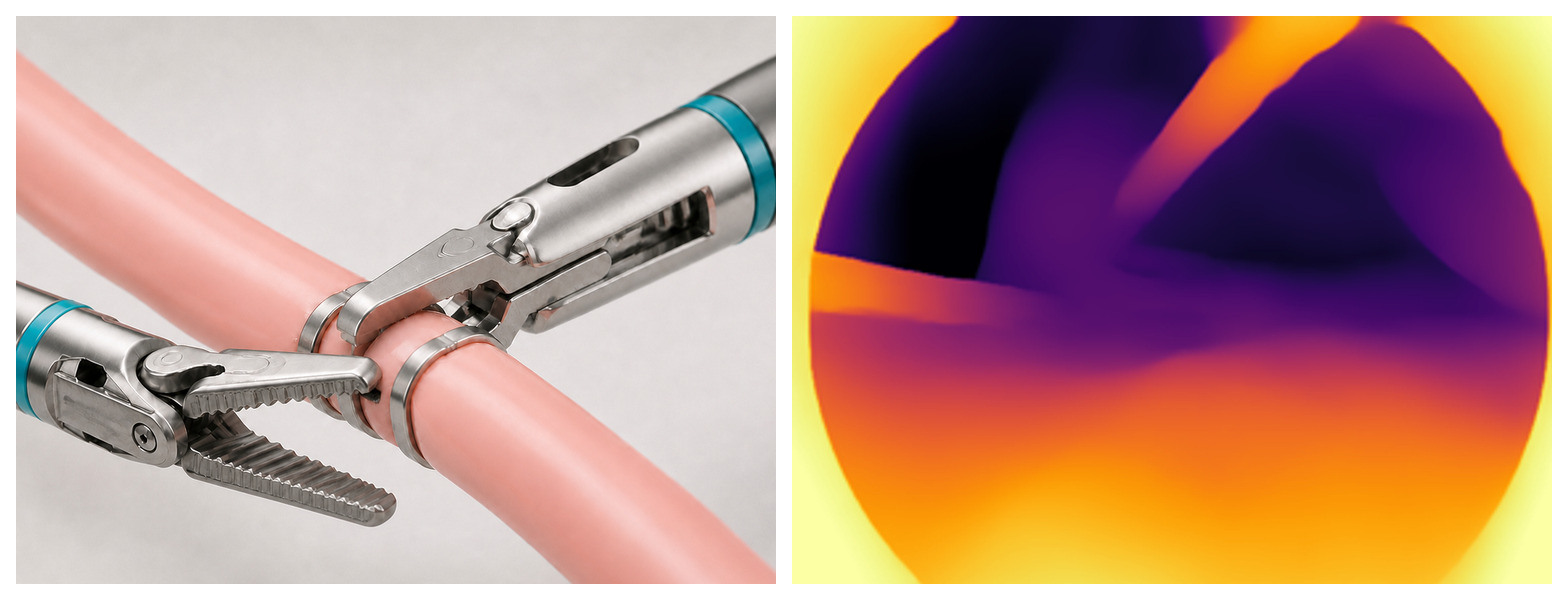
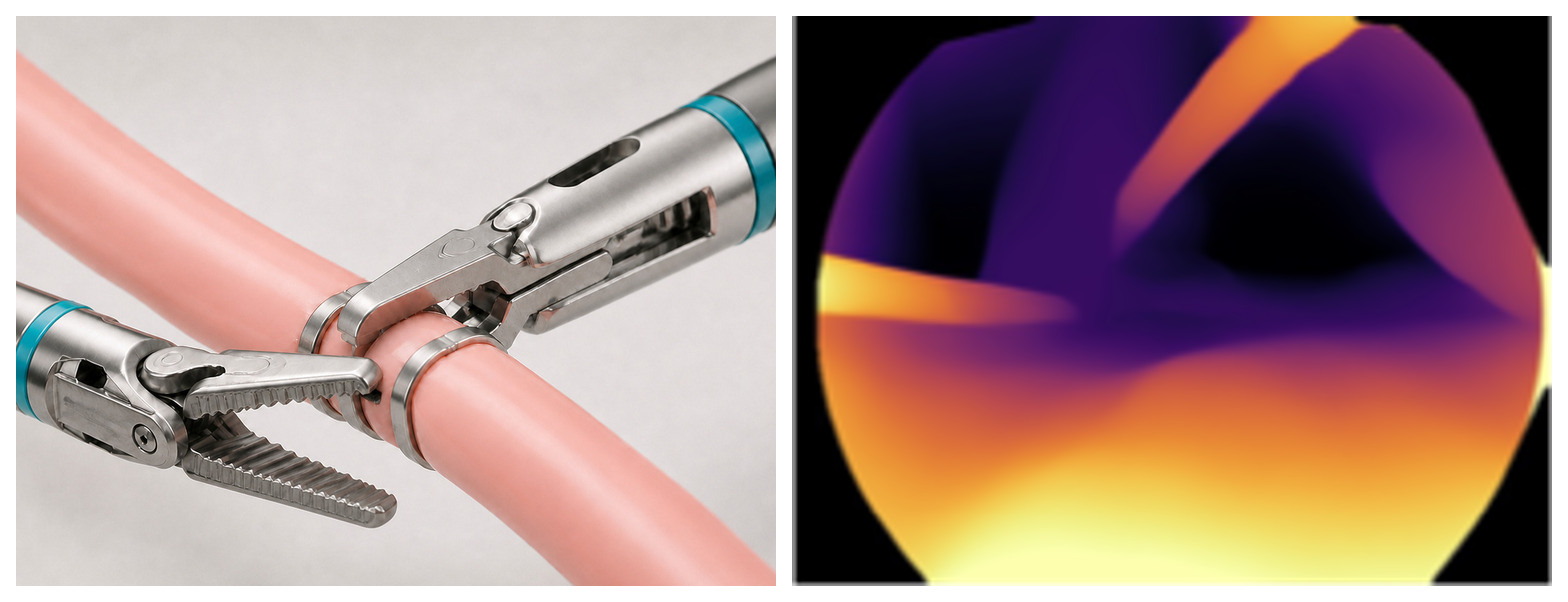
Use masked depth result and add compression ratio

diff --git a/script.js b/script.js
@@ -101,11 +101,11 @@ const translations = {
     "publications.internship.title": "Surgical Video Understanding and Efficient Depth Estimation",
     "publications.internship.role": "Machine Learning Engineer Intern",
     "publications.internship.summary":
-      "Built video models to recognize surgical phases and instrument actions for robot-assisted procedures. Compressed and fine-tuned a smaller Depth Anything 3 model that performs nearly as well as the full model.",
+      "Built video models to recognize surgical phases and instrument actions for robot-assisted procedures. Compressed and fine-tuned Depth Anything 3 to 29% of its original size while retaining nearly the full model's performance.",
     "publications.internship.keywords":
       "Surgical phase recognition · Robot-assisted surgery · Model compression · Monocular depth estimation",
     "publications.internship.imageAlt":
-      "Combined non-graphic surgical grasper and clip-applier illustration beside the full repaired small-model depth prediction",
+      "Combined non-graphic surgical grasper and clip-applier illustration beside a masked small-model depth prediction",
     "education.kicker": "Education",
     "education.title": "Academic Background.",
     "education.gmu.level": "Ph.D.",
@@ -225,11 +225,11 @@ const translations = {
     "publications.internship.title": "手术视频理解与高效深度估计",
     "publications.internship.role": "机器学习工程师实习生",
     "publications.internship.summary":
-      "构建视频模型，识别机器人辅助手术中的手术阶段和器械动作；压缩并微调小型 Depth Anything 3，使其性能与完整模型几乎一致。",
+      "构建视频模型，识别机器人辅助手术中的手术阶段和器械动作；将 Depth Anything 3 压缩并微调至原模型约 29% 的规模，性能与完整模型几乎一致。",
     "publications.internship.keywords":
       "手术阶段识别 · 机器人辅助手术 · 模型压缩 · 单目深度估计",
     "publications.internship.imageAlt":
-      "合成的非血腥手术夹持与施夹器械示意，以及完整的修复后小模型深度预测图",
+      "合成的非血腥手术夹持与施夹器械示意，以及视野外区域为黑色的小模型深度预测图",
     "education.kicker": "教育",
     "education.title": "教育背景。",
     "education.gmu.level": "博士",

diff --git a/index.html b/index.html
@@ -8,7 +8,7 @@
       content="Dachuan Song is a Ph.D. student at George Mason University researching deep learning, state space models, long-sequence modeling, and LLM-based systems."
     />
     <title>Dachuan Song | AI Research & Engineering</title>
-    <link rel="stylesheet" href="./styles.css?v=internship-two-panel-20260807" />
+    <link rel="stylesheet" href="./styles.css?v=internship-depth-mask-20260807" />
   </head>
   <body>
     <button
@@ -236,14 +236,14 @@
             <p data-i18n="publications.internship.role">Machine Learning Engineer Intern</p>
             <p class="publication-summary" data-i18n="publications.internship.summary">
               Built video models to recognize surgical phases and instrument actions for
-              robot-assisted procedures. Compressed and fine-tuned a smaller Depth Anything 3
-              model that performs nearly as well as the full model.
+              robot-assisted procedures. Compressed and fine-tuned Depth Anything 3 to 29% of
+              its original size while retaining nearly the full model's performance.
             </p>
             <p class="stack publication-keywords" data-i18n="publications.internship.keywords">Surgical phase recognition · Robot-assisted surgery · Model compression · Monocular depth estimation</p>
             <figure class="paper-thumbnail internship-thumbnail">
               <img
-                src="./assets/internship-surgery-depth.jpg?v=4"
-                alt="Combined non-graphic surgical grasper and clip-applier illustration beside the full repaired small-model depth prediction"
+                src="./assets/internship-surgery-depth.jpg?v=5"
+                alt="Combined non-graphic surgical grasper and clip-applier illustration beside a masked small-model depth prediction"
                 data-i18n-alt="publications.internship.imageAlt"
               />
             </figure>
@@ -380,6 +380,6 @@
       <p class="copyright">© <span id="year"></span> Dachuan Song.</p>
     </footer>
 
-    <script src="./script.js?v=internship-two-panel-20260807"></script>
+    <script src="./script.js?v=internship-depth-mask-20260807"></script>
   </body>
 </html>

diff --git a/styles.css b/styles.css
@@ -917,7 +917,7 @@ h3 {
 }
 
 .internship-thumbnail img {
-  aspect-ratio: 196 / 75;
+  aspect-ratio: 784 / 301;
 }
 
 .work-links {
